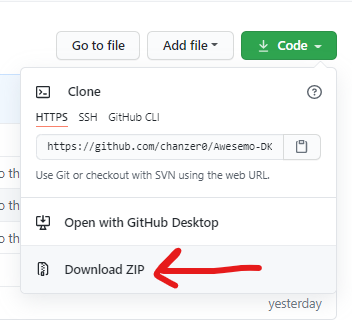
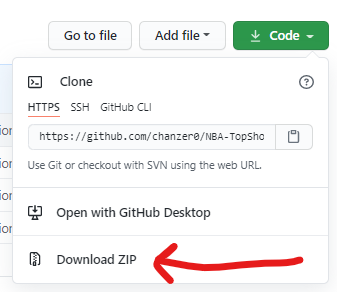
added functionality and updated the README

diff --git a/content.js b/content.js
@@ -1,9 +1,35 @@
-
-
-
-
 window.addEventListener("load", () => {
-    console.log('page loaded');
     var dropdownEl = document.getElementById('moment-detailed-serialNumber');
-    console.log(dropdownEl);
+
+    priceSerialMap = {}
+    for (const child of dropdownEl.children) {
+        var split = child.innerText.split('-');
+        var serial = split[0].trim();
+        var numberSerial = Number(serial.replace(/[#]+/g,""));
+
+        var price = split[1].trim();
+        var numberPrice = Number(price.replace(/[^0-9.-]+/g,""));
+
+        priceSerialMap[+numberPrice] = +numberSerial;
+    }
+
+    var childElsToAppend = []
+    for (var key in priceSerialMap) {
+        var element = document.createElement("option");
+        element.setAttribute("value", `${priceSerialMap[key]}`);
+        element.setAttribute("data-testid", "moment-detailed-serialNumber-5");
+        element.innerText = `$${key}.00 - #${priceSerialMap[key]}`;
+        childElsToAppend.push(element);
+    }
+
+    var cNode = dropdownEl.cloneNode(false);
+    dropdownEl.parentNode.replaceChild(cNode, dropdownEl);
+
+    dropdownEl = document.getElementById('moment-detailed-serialNumber');
+    for (var i = 0; i < childElsToAppend.length; i++){
+        console.log(childElsToAppend[i]);
+        dropdownEl.appendChild(childElsToAppend[i]);
+    }
+
+    console.log(childElsToAppend);
 });

diff --git a/README.md b/README.md
@@ -13,7 +13,7 @@ Packaged in this github repository is a tool for NBA Top Shot that will sort lis
 - To use the extension, you will obviously need to use the Google Chrome web browser
 
 1. From this github repository, you may either:
-    - clone the repository if you are used to git - `git clone https://github.com/chanzer0/Awesemo-DK-Extension.git`
+    - clone the repository if you are used to git - `git clone https://github.com/chanzer0/NBA-TopShot-Chrome-Extension.git`
     - download the codebase as a ZIP file (see screenshot below). Extract the zip file to your location of choosing.
     
         ![Download screenshot](assets/readme_images/download.png)
@@ -21,4 +21,5 @@ Packaged in this github repository is a tool for NBA Top Shot that will sort lis
 2. Navigate to `chrome://extensions/` in your Google Chrome web browser
 4. In the top left, select `Load Unpacked` and navigate to the directory of the code you downloaded in step 1.
 5. You should now see an extension like the one below. You can ignore the `Errors` tab. Click the refresh button, and then navigate to NBA Top Shot and test it out!
+    
     ![Extension screenshot](assets/readme_images/extension.png)
